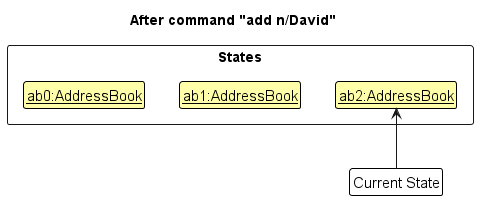
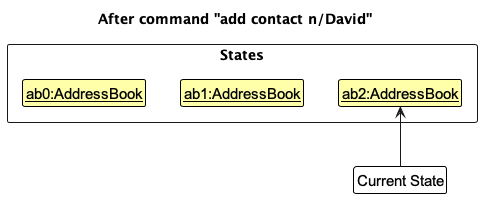
Update UG and DG to reflect name change

diff --git a/docs/DeveloperGuide.md b/docs/DeveloperGuide.md
@@ -179,11 +179,11 @@ Step 1. The user launches the application for the first time. The `VersionedAddr
 
 ![UndoRedoState0](images/UndoRedoState0.png)
 
-Step 2. The user executes `delete 5` command to delete the 5th person in the address book. The `delete` command calls `Model#commitAddressBook()`, causing the modified state of the address book after the `delete 5` command executes to be saved in the `addressBookStateList`, and the `currentStatePointer` is shifted to the newly inserted address book state.
+Step 2. The user executes `delete contact 5` command to delete the 5th person in the address book. The `delete` command calls `Model#commitAddressBook()`, causing the modified state of the address book after the `delete contact 5` command executes to be saved in the `addressBookStateList`, and the `currentStatePointer` is shifted to the newly inserted address book state.
 
 ![UndoRedoState1](images/UndoRedoState1.png)
 
-Step 3. The user executes `add n/David …` to add a new person. The `add` command also calls `Model#commitAddressBook()`, causing another modified address book state to be saved into the `addressBookStateList`.
+Step 3. The user executes `add contact n/David …` to add a new person. The `add contact` command also calls `Model#commitAddressBook()`, causing another modified address book state to be saved into the `addressBookStateList`.
 
 ![UndoRedoState2](images/UndoRedoState2.png)
 
@@ -218,7 +218,7 @@ The `redo` command does the opposite — it calls `Model#redoAddressBook()`,
 
 </div>
 
-Step 5. The user then decides to execute the command `list`. Commands that do not modify the address book, such as `list`, will usually not call `Model#commitAddressBook()`, `Model#undoAddressBook()` or `Model#redoAddressBook()`. Thus, the `addressBookStateList` remains unchanged.
+Step 5. The user then decides to execute the command `list all`. Commands that do not modify the address book, such as `list all`, will usually not call `Model#commitAddressBook()`, `Model#undoAddressBook()` or `Model#redoAddressBook()`. Thus, the `addressBookStateList` remains unchanged.
 
 ![UndoRedoState4](images/UndoRedoState4.png)
 
@@ -299,7 +299,7 @@ Priorities: High (must have) - `* * *`, Medium (nice to have) - `* *`, Low (unli
 
 ### Use cases
 
-(For all use cases below, the **System** is the `AddressBook` 
+(For all use cases below, the **System** is the `TalentConnect` 
 and the **Actor** is the `user`, unless specified otherwise)
 
 **Use case: Delete contact**
@@ -307,10 +307,10 @@ and the **Actor** is the `user`, unless specified otherwise)
 **MSS**
 
 1.  User requests to list contacts
-2.  AddressBook shows a list of contacts
+2.  TalentConnect shows a list of contacts
 3.  User requests to delete a specific contact in the list
-4.  AddressBook deletes the contacts
-5.  AddressBook returns an updated list of contacts along with success message.
+4.  TalentConnect deletes the contacts
+5.  TalentConnect returns an updated list of contacts along with success message.
 
     Use case ends.
 
@@ -322,7 +322,7 @@ and the **Actor** is the `user`, unless specified otherwise)
 
 * 3a. The given index is invalid.
 
-    * 3a1. AddressBook shows an error message.
+    * 3a1. TalentConnect shows an error message.
 
       Use case resumes at step 2.
 
@@ -331,9 +331,9 @@ and the **Actor** is the `user`, unless specified otherwise)
 **MSS**
 
 1.  User requests to list job listings
-2.  AddressBook shows a list of job listings
+2.  TalentConnect shows a list of job listings
 3.  User requests to screen all contact based on the requirements of a job listing
-4.  AddressBook return a list of contacts that fits the job requirements
+4.  TalentConnect return a list of contacts that fits the job requirements
 
     Use case ends.
 
@@ -345,7 +345,7 @@ and the **Actor** is the `user`, unless specified otherwise)
 
 * 3a. The given index is invalid.
 
-    * 3a1. AddressBook shows an error message.
+    * 3a1. TalentConnect shows an error message.
 
       Use case resumes at step 2.
 
@@ -358,14 +358,14 @@ and the **Actor** is the `user`, unless specified otherwise)
 **MSS**
 
 1. User requests to add contact.
-2. AddressBook returns an updated list of contacts with a success message.
+2. TalentConnect returns an updated list of contacts with a success message.
    Use case ends.
 
 **Extensions** 
 
 * 1a. The given parameters are invalid. 
 
-    * 1a1. AddressBook shows an error message.
+    * 1a1. TalentConnect shows an error message.
   
       Use case ends. 
 
@@ -374,14 +374,14 @@ and the **Actor** is the `user`, unless specified otherwise)
 **MSS**
 
 1. User requests to add a company.
-2. AddressBook returns an updated list of companies with a success message.
+2. TalentConnect returns an updated list of companies with a success message.
 
    Use case ends.
 
 **Extensions**
 
 * 1a. The given parameters are invalid.
-    * 1a1. AddressBook shows an error message.
+    * 1a1. TalentConnect shows an error message.
 
       Use case ends.
 
@@ -390,7 +390,7 @@ and the **Actor** is the `user`, unless specified otherwise)
 **MSS**
 
 1. User requests to list companies.
-2. AddressBook shows the list of companies.
+2. TalentConnect shows the list of companies.
 
    Use case ends.
 
@@ -406,8 +406,8 @@ and the **Actor** is the `user`, unless specified otherwise)
 
 1. User requests to list companies.
 2. User requests to view a company.
-3. AddressBook selects the targeted company.
-4. AddressBook filters the contact and job lists to show those associated with company.
+3. TalentConnect selects the targeted company.
+4. TalentConnect filters the contact and job lists to show those associated with company.
 
     Use case ends.
 
@@ -417,7 +417,7 @@ and the **Actor** is the `user`, unless specified otherwise)
     Use case ends.
 
 * 2a. The given parameters are invalid.
-    * 2a1. AddressBook shows an error message.
+    * 2a1. TalentConnect shows an error message.
     
         Use case resumes at step 2.
 

diff --git a/docs/UserGuide.md b/docs/UserGuide.md
@@ -20,9 +20,9 @@ faster than traditional GUI apps.
 
 2. Download the latest `.jar` file from [here](https://github.com/AY2425S1-CS2103-F13-4/tp/releases).
 
-3. Copy the file to the folder you want to use as the _home folder_ for your AddressBook.
+3. Copy the file to the folder you want to use as the _home folder_ for your TalentConnect.
 
-4. Open a command terminal, `cd` into the folder you put the jar file in, and use the `java -jar addressbook.jar` command to run the application.<br>
+4. Open a command terminal, `cd` into the folder you put the jar file in, and use the `java -jar talentconnect.jar` command to run the application.<br>
    A GUI similar to the below should appear in a few seconds. Note how the app contains some sample data.<br>
    ![Ui](images/Ui.png)
 
@@ -318,17 +318,17 @@ Format: `exit`
 
 ### Saving the data
 
-AddressBook data are saved in the hard disk automatically after any command that changes the data. There is no need to save manually.
+TalentConnect data are saved in the hard disk automatically after any command that changes the data. There is no need to save manually.
 
 ### Editing the data file
 
-AddressBook data are saved automatically as a JSON file:<br>
-`[JAR file location]/data/addressbook.json`.<br>
+TalentConnect data are saved automatically as a JSON file:<br>
+`[JAR file location]/data/talentconnect.json`.<br>
 Advanced users are welcome to update data directly by editing that data file.
 
 <div markdown="span" class="alert alert-warning">:exclamation: **Caution:**
-If your changes to the data file makes its format invalid, AddressBook will discard all data and start with an empty data file at the next run. Hence, it is recommended to take a backup of the file before editing it.<br>
-Furthermore, certain edits can cause the AddressBook to behave in unexpected ways (e.g., if a value entered is outside the acceptable range). Therefore, edit the data file only if you are confident that you can update it correctly.
+If your changes to the data file makes its format invalid, TalentConnect will discard all data and start with an empty data file at the next run. Hence, it is recommended to take a backup of the file before editing it.<br>
+Furthermore, certain edits can cause the TalentConnect to behave in unexpected ways (e.g., if a value entered is outside the acceptable range). Therefore, edit the data file only if you are confident that you can update it correctly.
 </div>
 
 ### Archiving data files `[coming in v2.0]`
@@ -340,7 +340,7 @@ _Details coming soon ..._
 ## FAQ
 
 **Q**: How do I transfer my data to another Computer?<br>
-**A**: Install the app in the other computer and overwrite the empty data file it creates with the file that contains the data of your previous AddressBook home folder.
+**A**: Install the app in the other computer and overwrite the empty data file it creates with the file that contains the data of your previous TalentConnect home folder.
 
 --------------------------------------------------------------------------------------------------------------------
 
